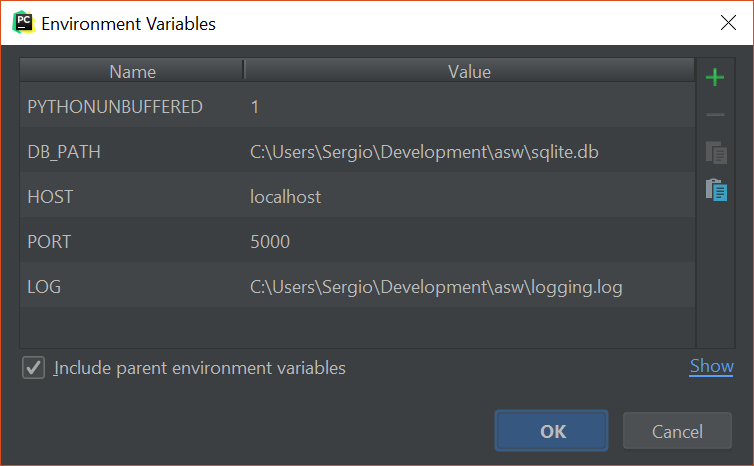
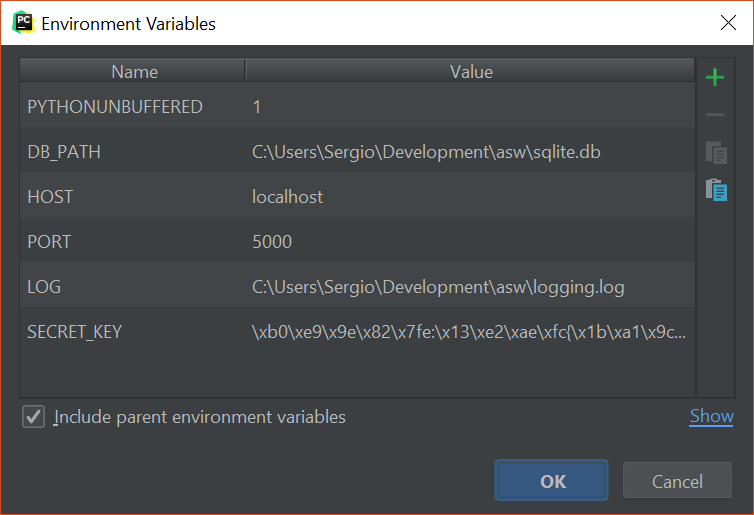
Update readme with secret key setup instructions

diff --git a/README.md b/README.md
@@ -19,7 +19,18 @@ DB_PATH -> path to sqlite file
 HOST -> host to listen
 PORT -> port to deploy
 LOG -> path to log file
+SECRET_KEY -> secret to generate tokens
 ```
+
+You can generate a key on a Python console with:
+
+```python
+>>> import os
+>>> os.urandom(24)
+b"\xf9'\xe4p(\xa9\x12\x1a!\x94\x8d\x1c\x99l\xc7\xb7e\xc7c\x86\x02MJ\xa0"
+```
+
+Use only the content inside double quotes.
 
 ## PyCharm Setup
 
